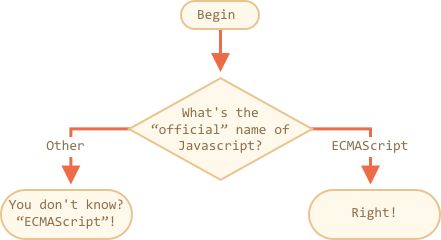
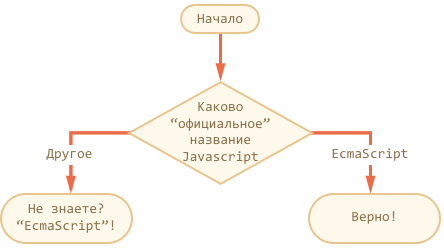
translation tasks and solutions for /1-js/02-first-steps/10-ifelse

diff --git a/1-js/02-first-steps/10-ifelse/2-check-standard/ifelse_task2/index.html b/1-js/02-first-steps/10-ifelse/2-check-standard/ifelse_task2/index.html
@@ -5,12 +5,12 @@
   <script>
     'use strict';
 
-    let value = prompt('What is the "official" name of JavaScript?', '');
+    let value = prompt('Каково "официальное" название JavaScript?', '');
 
     if (value == 'ECMAScript') {
-      alert('Right!');
+      alert('Верно!');
     } else {
-      alert("You don't know? ECMAScript!");
+      alert('Не знаете? ECMAScript!');
     }
   </script>
 

diff --git a/1-js/02-first-steps/10-ifelse/3-sign/if_sign/index.html b/1-js/02-first-steps/10-ifelse/3-sign/if_sign/index.html
@@ -6,7 +6,7 @@
   <script>
     'use strict';
 
-    let value = prompt('Type a number', 0);
+    let value = prompt('Введите число', 0);
 
     if (value > 0) {
       alert(1);

diff --git a/1-js/02-first-steps/10-ifelse/6-rewrite-if-else-question/task.md b/1-js/02-first-steps/10-ifelse/6-rewrite-if-else-question/task.md
@@ -2,21 +2,21 @@ importance: 5
 
 ---
 
-# Rewrite 'if..else' into '?'
+# Перепишите 'if..else' в '?'
 
-Rewrite `if..else` using multiple ternary operators `'?'`.
+Перепишите `if..else` с использованием нескольких операторов `'?'`.
 
-For readability, it's recommended to split the code into multiple lines.
+Для читаемости, рекомендуется разбить код на несколько строк.
 
 ```js
 let message;
 
-if (login == 'Employee') {
-  message = 'Hello';
-} else if (login == 'Director') {
-  message = 'Greetings';
+if (login == 'Сотрудник') {
+  message = 'Привет';
+} else if (login == 'Директор') {
+  message = 'Здравствуйте';
 } else if (login == '') {
-  message = 'No login';
+  message = 'Нет логина';
 } else {
   message = '';
 }

diff --git a/1-js/02-first-steps/10-ifelse/3-sign/task.md b/1-js/02-first-steps/10-ifelse/3-sign/task.md
@@ -2,14 +2,14 @@ importance: 2
 
 ---
 
-# Show the sign
+# Показать знак
 
-Using `if..else`, write the code which gets a number via `prompt` and then shows in `alert`:
+Используя конструкцию `if..else`, напишите код, который получает число через `prompt`, а затем выводит в `alert`:
 
-- `1`, if the value is greater than zero,
-- `-1`, if less than zero,
-- `0`, if equals zero.
+- `1`, если значение больше нуля,
+- `-1`, если значение меньше нуля,
+- `0`, если значение равно нулю.
 
-In this task we assume that the input is always a number.
+Предполагается, что пользователь вводит только числа.
 
 [demo src="if_sign"]

diff --git a/1-js/02-first-steps/10-ifelse/2-check-standard/task.md b/1-js/02-first-steps/10-ifelse/2-check-standard/task.md
@@ -2,13 +2,12 @@ importance: 2
 
 ---
 
-# The name of JavaScript
+# Официальное название JavaScript
 
-Using the `if..else` construct, write the code which asks: 'What is the "official" name of JavaScript?'
+Используя конструкцию `if..else`, напишите код, который будет спрашивать: 'Каково "официальное" название JavaScript?'
 
-If the visitor enters "ECMAScript", then output "Right!", otherwise -- output: "Didn't know? ECMAScript!"
+Если пользователь вводит "ECMAScript", то выводить: "Верно!", в противном случае -- выводить: "Не знаете? ECMAScript!"
 
 ![](ifelse_task2.png)
 
 [demo src="ifelse_task2"]
-

diff --git a/1-js/02-first-steps/10-ifelse/1-if-zero-string/solution.md b/1-js/02-first-steps/10-ifelse/1-if-zero-string/solution.md
@@ -1,12 +1,11 @@
-**Yes, it will.**
+**Да, выведется.**
 
-Any string except an empty one (and `"0"` is not empty) becomes `true` in the logical context.
+Любая строка, кроме пустой (`"0"` -- здесь она не пустая), в логическом контексте становится `true`.
 
-We can run and check:
+Можно запустить и проверить:
 
 ```js run
 if ("0") {
-  alert( 'Hello' );
+  alert( 'Привет' );
 }
 ```
-

diff --git a/1-js/02-first-steps/10-ifelse/5-rewrite-if-question/task.md b/1-js/02-first-steps/10-ifelse/5-rewrite-if-question/task.md
@@ -2,15 +2,14 @@ importance: 5
 
 ---
 
-# Rewrite 'if' into '?'
+# Перепишите 'if' в '?'
 
-Rewrite this `if` using the ternary operator `'?'`:
+Перепишите `if` с использованием условного оператора `'?'`:
 
 ```js
 if (a + b < 4) {
-  result = 'Below';
+  result = 'Мало';
 } else {
-  result = 'Over';
+  result = 'Много';
 }
 ```
-

diff --git a/1-js/02-first-steps/10-ifelse/6-rewrite-if-else-question/solution.md b/1-js/02-first-steps/10-ifelse/6-rewrite-if-else-question/solution.md
@@ -1,9 +1,8 @@
 
 
 ```js
-let message = (login == 'Employee') ? 'Hello' :
-  (login == 'Director') ? 'Greetings' :
-  (login == '') ? 'No login' :
+let message = (login == 'Сотрудник') ? 'Привет' :
+  (login == 'Директор') ? 'Здравствуйте' :
+  (login == '') ? 'Нет логина' :
   '';
 ```
-

diff --git a/1-js/02-first-steps/10-ifelse/1-if-zero-string/task.md b/1-js/02-first-steps/10-ifelse/1-if-zero-string/task.md
@@ -2,13 +2,12 @@ importance: 5
 
 ---
 
-# if (a string with zero)
+# if (строка с нулём)
 
-Will `alert` be shown?
+Выведется ли `alert`?
 
 ```js
 if ("0") {
-  alert( 'Hello' );
+  alert( 'Привет' );
 }
 ```
-

diff --git a/1-js/02-first-steps/10-ifelse/3-sign/solution.md b/1-js/02-first-steps/10-ifelse/3-sign/solution.md
@@ -1,7 +1,7 @@
 
 
 ```js run
-let value = prompt('Type a number', 0);
+let value = prompt('Введите число', 0);
 
 if (value > 0) {
   alert( 1 );
@@ -11,4 +11,3 @@ if (value > 0) {
   alert( 0 );
 }
 ```
-

diff --git a/1-js/02-first-steps/10-ifelse/5-rewrite-if-question/solution.md b/1-js/02-first-steps/10-ifelse/5-rewrite-if-question/solution.md
@@ -1,6 +1,5 @@
 
 
 ```js
-result = (a + b < 4) ? 'Below' : 'Over';
+result = (a + b < 4) ? 'Мало' : 'Много';
 ```
-
